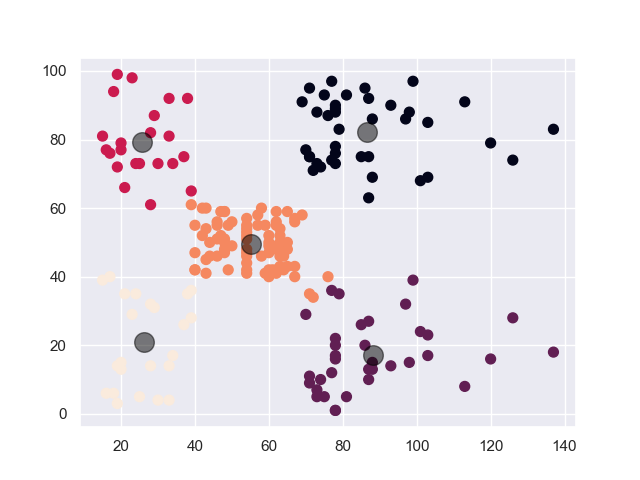
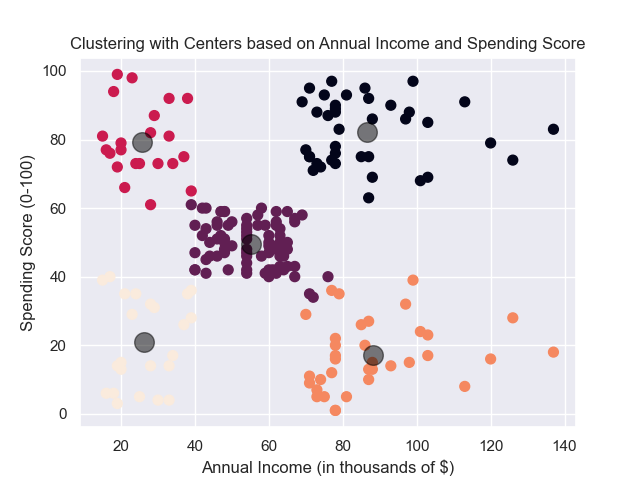
Updated plot labels

diff --git a/shoppingtrends.py b/shoppingtrends.py
@@ -30,9 +30,11 @@ shopping_data
 # Using dendrogram to find number of clusters
 import scipy.cluster.hierarchy as shc
 
-plt.figure(figsize=(10, 5))  
-plt.title("Dendrogram")  
+plt.figure(figsize=(10, 10))  
 dend = shc.dendrogram(shc.linkage(shopping_data, method='ward'))
+plt.title('Dendrogram')  
+plt.xlabel('CustomerID')
+plt.ylabel('Height')
 plt.show()
 
 # Using number of clusters from dendrogram to perform hierarchial clustering 
@@ -42,6 +44,9 @@ hc = AgglomerativeClustering(n_clusters = 5, affinity='euclidean', linkage='ward
 y_ward = hc.fit_predict(shopping_data)  
 
 plt.scatter(shopping_data.iloc[:,0], shopping_data.iloc[:,1], c=y_ward, s=50)
+plt.title('Clustering based on Annual Income and Spending Score')
+plt.xlabel('Annual Income (in thousands of $)')
+plt.ylabel('Spending Score (0-100)')
 plt.show()
 
 # Performing K-means Clustering to visualize results
@@ -74,4 +79,7 @@ plt.scatter(shopping_data.iloc[:, 0], shopping_data.iloc[:, 1], c=y_kmeans, s=50
 
 centers = kmeans.cluster_centers_
 plt.scatter(centers[:, 0], centers[:, 1], c='black', s=200, alpha=0.5)
+plt.title('Clustering with Centers based on Annual Income and Spending Score')
+plt.xlabel('Annual Income (in thousands of $)')
+plt.ylabel('Spending Score (0-100)')
 plt.show()
